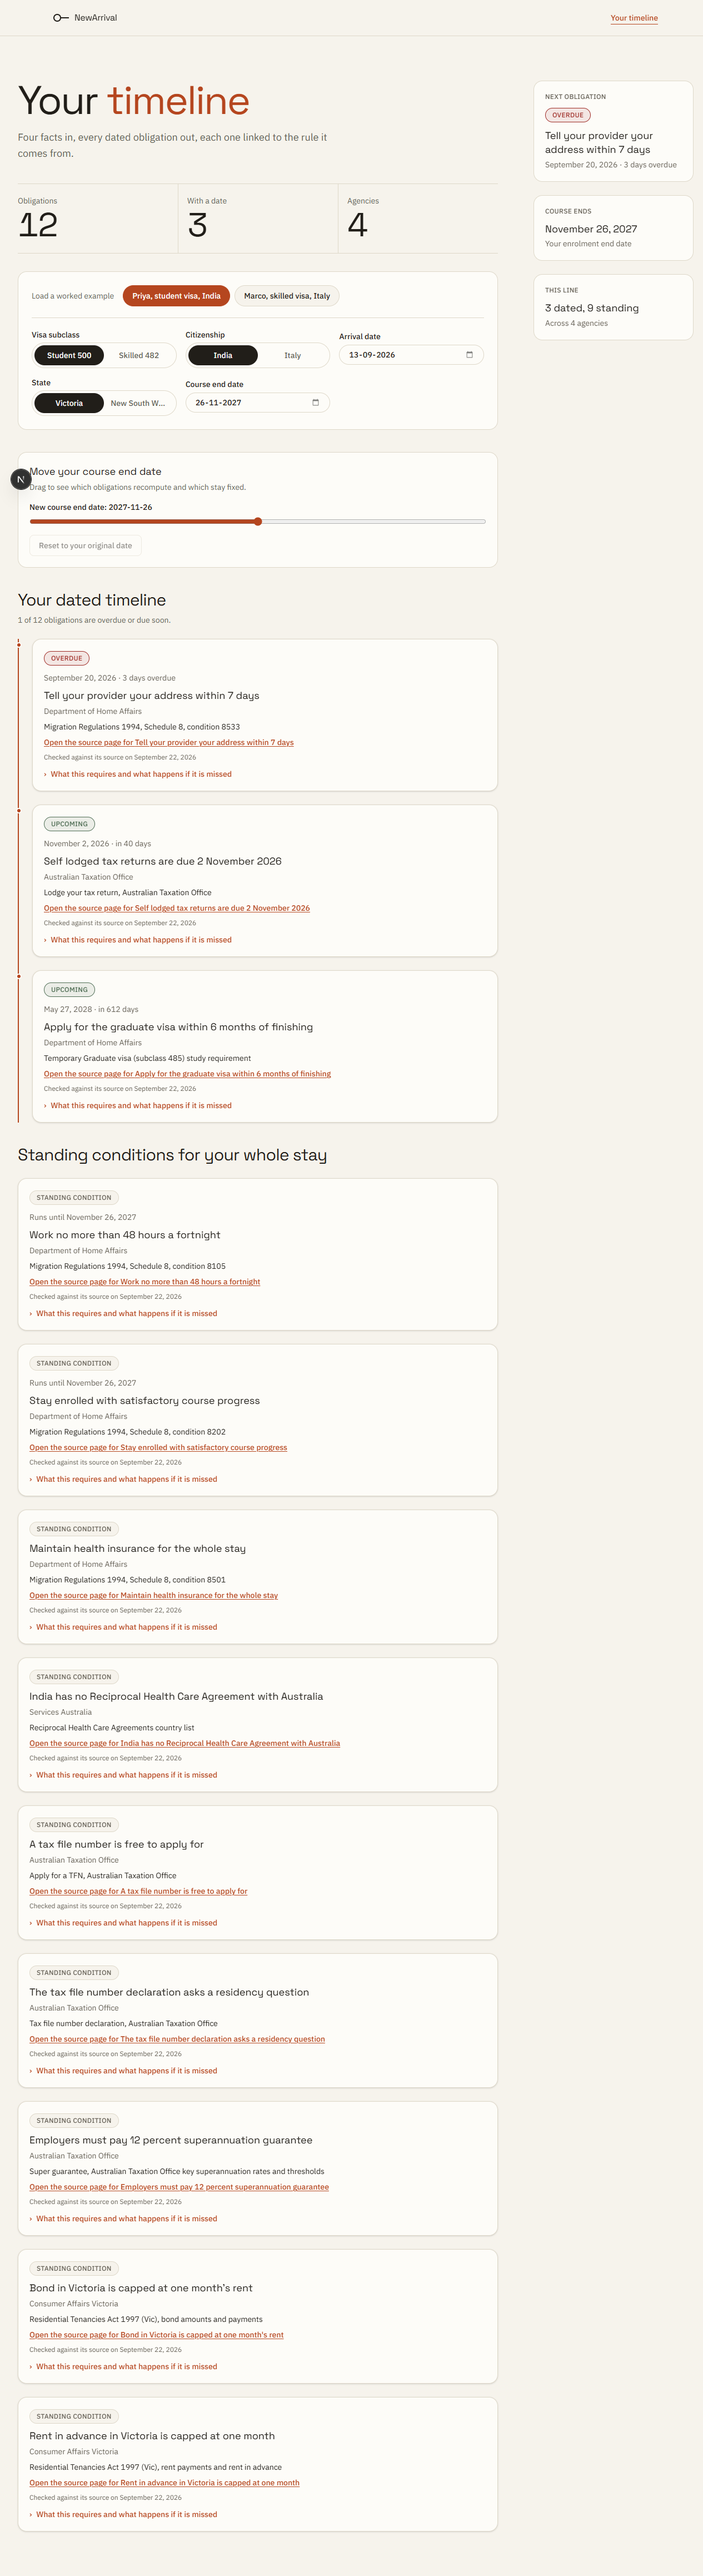
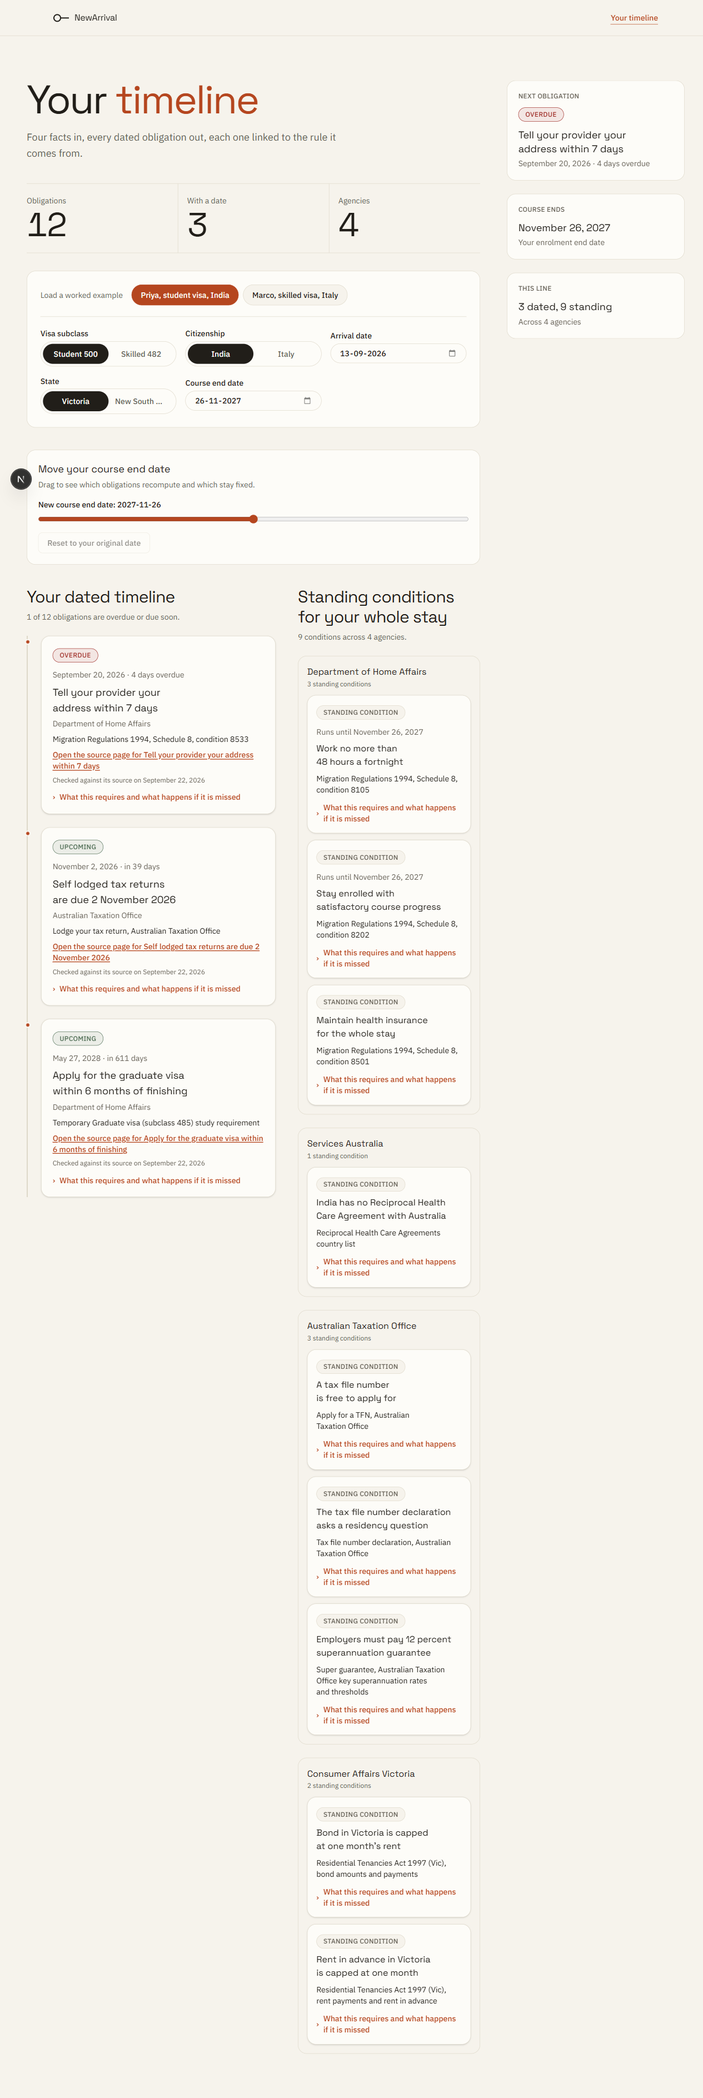
feat(timeline): break the centred-column layout at wide widths
Dated timeline and standing conditions now sit side by side above 1280,
with standing conditions grouped into per-agency cards in a multi-column
grid instead of a flat stack of nine identical cards. Card chrome is
denser in that context: source link and verified-on date fold into the
disclosure instead of sitting exposed. Sticky summary sidebar unchanged.
375 still stacks single column.

diff --git a/src/app/timeline/page.tsx b/src/app/timeline/page.tsx
@@ -117,6 +117,15 @@ export default function TimelinePage() {
   const needsCourseEnd = baseline.some((obligation) => obligation.anchor === "courseEnd");
   const dated = obligations.filter((obligation) => obligation.dueDate !== null);
   const standing = obligations.filter((obligation) => obligation.dueDate === null);
+  const standingByAgency = React.useMemo(() => {
+    const map = new Map<string, typeof standing>();
+    for (const obligation of standing) {
+      const group = map.get(obligation.agency);
+      if (group) group.push(obligation);
+      else map.set(obligation.agency, [obligation]);
+    }
+    return [...map.entries()];
+  }, [standing]);
   const agencyCount = new Set(obligations.map((obligation) => obligation.agency)).size;
   const urgentCount = obligations.filter(
     (obligation) => obligation.status === "overdue" || obligation.status === "due-soon"
@@ -159,7 +168,8 @@ export default function TimelinePage() {
   return (
     <>
       <SiteHeader current="timeline" />
-      <main className="mx-auto w-full max-w-[1800px] px-6 py-14 md:px-8 md:py-20 xl:grid xl:grid-cols-[minmax(0,56rem)_18rem] xl:justify-center xl:gap-16 2xl:grid-cols-[minmax(0,56rem)_20rem] 2xl:gap-24">
+      <main className="mx-auto w-full max-w-[2200px] px-6 py-14 md:px-8 md:py-20 xl:px-12 2xl:px-16">
+      <div className="xl:grid xl:grid-cols-[minmax(0,1fr)_20rem] xl:items-start xl:gap-12 2xl:grid-cols-[minmax(0,1fr)_22rem] 2xl:gap-16">
       <div className="w-full max-w-4xl xl:max-w-none">
         <h1 className="font-display text-[clamp(2.6rem,6vw,4.5rem)] leading-[0.98] tracking-[-0.035em] text-[var(--color-text)]">
           <span className="mask-line">
@@ -216,7 +226,7 @@ export default function TimelinePage() {
           </div>
         </section>
 
-        <section aria-labelledby="facts-heading" className="mt-5 grid gap-4 border-t border-[var(--color-border)] pt-5 sm:grid-cols-2 md:grid-cols-3">
+        <section aria-labelledby="facts-heading" className="mt-5 grid gap-4 border-t border-[var(--color-border)] pt-5 sm:grid-cols-2 md:grid-cols-3 2xl:grid-cols-5">
           <h2 id="facts-heading" className="sr-only">
             Your four facts
           </h2>
@@ -286,57 +296,77 @@ export default function TimelinePage() {
           />
         )}
 
-        <section aria-labelledby="dated-heading" className="mt-10">
-          <h2 id="dated-heading" className="font-display text-3xl tracking-tight text-[var(--color-text)]">
-            Your dated timeline
-          </h2>
-          <p className="mt-2 font-body text-sm text-[var(--color-muted)]">
-            {urgentCount} of {obligations.length} obligations are overdue or due soon.
-          </p>
-          <ol className="relative mt-6 flex flex-col gap-6 border-l-2 border-[var(--color-border)] pl-6">
-            {/* The rail fills in terracotta as the reader travels down it. */}
-            <span aria-hidden="true" className="rail-fill absolute -left-0.5 top-0 h-full w-0.5 bg-[var(--color-accent)]" />
-            {dated.map((obligation, index) => (
-              <li key={obligation.id} className="relative">
-                <span
-                  aria-hidden="true"
-                  className="absolute -left-6 top-1.5 h-2.5 w-2.5 -translate-x-1/2 rounded-full border-2 border-[var(--color-surface)] bg-[var(--color-accent)]"
-                />
-                <ObligationCard
-                  obligation={obligation}
-                  change={changeById.get(obligation.id) ?? null}
-                  cascadeIndex={index}
-                />
-              </li>
-            ))}
-            {atGraduation && (
-              <li aria-hidden="true" className="fade-up relative">
-                <span className="absolute -left-6 top-1.5 h-2.5 w-2.5 -translate-x-1/2 rounded-full border-2 border-[var(--color-surface)] bg-[var(--color-accent)]" />
-                <p className="font-display text-lg text-[var(--color-text)]">Priya graduates.</p>
-                <p className="mt-1 font-body text-sm text-[var(--color-muted)]">
-                  Every dated obligation above resettles around this day.
-                </p>
-              </li>
-            )}
-          </ol>
-        </section>
+        <div className="xl:grid xl:grid-cols-[minmax(0,28rem)_minmax(0,1fr)] xl:items-start xl:gap-10 2xl:grid-cols-[minmax(0,32rem)_minmax(0,1fr)] 2xl:gap-14">
+          <section aria-labelledby="dated-heading" className="mt-10 xl:mt-10">
+            <h2 id="dated-heading" className="font-display text-3xl tracking-tight text-[var(--color-text)]">
+              Your dated timeline
+            </h2>
+            <p className="mt-2 font-body text-sm text-[var(--color-muted)]">
+              {urgentCount} of {obligations.length} obligations are overdue or due soon.
+            </p>
+            <ol className="relative mt-6 flex flex-col gap-6 border-l-2 border-[var(--color-border)] pl-6">
+              {/* The rail fills in terracotta as the reader travels down it. */}
+              <span aria-hidden="true" className="rail-fill absolute -left-0.5 top-0 h-full w-0.5 bg-[var(--color-accent)]" />
+              {dated.map((obligation, index) => (
+                <li key={obligation.id} className="relative">
+                  <span
+                    aria-hidden="true"
+                    className="absolute -left-6 top-1.5 h-2.5 w-2.5 -translate-x-1/2 rounded-full border-2 border-[var(--color-surface)] bg-[var(--color-accent)]"
+                  />
+                  <ObligationCard
+                    obligation={obligation}
+                    change={changeById.get(obligation.id) ?? null}
+                    cascadeIndex={index}
+                  />
+                </li>
+              ))}
+              {atGraduation && (
+                <li aria-hidden="true" className="fade-up relative">
+                  <span className="absolute -left-6 top-1.5 h-2.5 w-2.5 -translate-x-1/2 rounded-full border-2 border-[var(--color-surface)] bg-[var(--color-accent)]" />
+                  <p className="font-display text-lg text-[var(--color-text)]">Priya graduates.</p>
+                  <p className="mt-1 font-body text-sm text-[var(--color-muted)]">
+                    Every dated obligation above resettles around this day.
+                  </p>
+                </li>
+              )}
+            </ol>
+          </section>
 
-        <section aria-labelledby="standing-heading" className="mt-10">
-          <h2 id="standing-heading" className="font-display text-3xl tracking-tight text-[var(--color-text)]">
-            Standing conditions for your whole stay
-          </h2>
-          <ul className="mt-6 flex flex-col gap-6">
-            {standing.map((obligation, index) => (
-              <li key={obligation.id}>
-                <ObligationCard
-                  obligation={obligation}
-                  change={changeById.get(obligation.id) ?? null}
-                  cascadeIndex={index}
-                />
-              </li>
-            ))}
-          </ul>
-        </section>
+          <section aria-labelledby="standing-heading" className="mt-10 xl:mt-10">
+            <h2 id="standing-heading" className="font-display text-3xl tracking-tight text-[var(--color-text)]">
+              Standing conditions for your whole stay
+            </h2>
+            <p className="mt-2 font-body text-sm text-[var(--color-muted)]">
+              {standing.length} condition{standing.length === 1 ? "" : "s"} across {standingByAgency.length}{" "}
+              agenc{standingByAgency.length === 1 ? "y" : "ies"}.
+            </p>
+            <div className="mt-6 grid gap-6 sm:grid-cols-2 xl:grid-cols-1 2xl:grid-cols-2">
+              {standingByAgency.map(([agency, items]) => (
+                <div
+                  key={agency}
+                  className="rounded-[var(--radius-lg)] border border-[var(--color-border)] bg-[var(--color-bg)] p-4"
+                >
+                  <h3 className="font-display text-base text-[var(--color-text)]">{agency}</h3>
+                  <p className="mt-0.5 font-body text-xs text-[var(--color-muted)]">
+                    {items.length} standing condition{items.length === 1 ? "" : "s"}
+                  </p>
+                  <div className="mt-3 grid gap-3">
+                    {items.map((obligation, index) => (
+                      <ObligationCard
+                        key={obligation.id}
+                        obligation={obligation}
+                        change={changeById.get(obligation.id) ?? null}
+                        cascadeIndex={index}
+                        compact
+                        hideAgency
+                      />
+                    ))}
+                  </div>
+                </div>
+              ))}
+            </div>
+          </section>
+        </div>
       </div>
 
       <aside className="mt-14 hidden xl:mt-0 xl:block">
@@ -386,6 +416,7 @@ export default function TimelinePage() {
           </div>
         </div>
       </aside>
+      </div>
       </main>
     </>
   );

diff --git a/src/components/ObligationCard.tsx b/src/components/ObligationCard.tsx
@@ -70,9 +70,19 @@ interface ObligationCardProps {
   obligation: Obligation;
   change?: ObligationChange | null;
   cascadeIndex?: number;
+  /** Denser chrome for grid contexts: source link and verified-on fold into the disclosure. */
+  compact?: boolean;
+  /** Omit the standalone agency line when a group heading already states it. */
+  hideAgency?: boolean;
 }
 
-export function ObligationCard({ obligation, change = null, cascadeIndex = 0 }: ObligationCardProps) {
+export function ObligationCard({
+  obligation,
+  change = null,
+  cascadeIndex = 0,
+  compact = false,
+  hideAgency = false,
+}: ObligationCardProps) {
   const phrase = relativePhrase(obligation.daysUntilDue);
   const cardStyle = {
     viewTransitionName: `obligation-${obligation.id}`,
@@ -84,7 +94,7 @@ export function ObligationCard({ obligation, change = null, cascadeIndex = 0 }: 
       data-obligation-id={obligation.id}
       data-change-kind={change?.kind ?? "none"}
       style={cardStyle}
-      className="cascade-card rounded-[var(--radius-lg)] border border-[var(--color-border)] bg-[var(--color-surface)] p-5 shadow-sm"
+      className={`cascade-card rounded-[var(--radius-lg)] border border-[var(--color-border)] bg-[var(--color-surface)] shadow-sm ${compact ? "p-4" : "p-5"}`}
     >
       <span
         className={`inline-flex items-center rounded-full border px-3 py-1 font-body text-xs font-medium uppercase tracking-wide ${STATUS_CLASS[obligation.status]}`}
@@ -111,24 +121,30 @@ export function ObligationCard({ obligation, change = null, cascadeIndex = 0 }: 
         </p>
       )}
 
-      <h3 className="mt-2 font-display text-lg text-[var(--color-text)]">{obligation.title}</h3>
+      <h3 className={`mt-2 font-display text-[var(--color-text)] ${compact ? "text-base" : "text-lg"}`}>
+        {obligation.title}
+      </h3>
 
-      <p className="mt-1 font-body text-sm text-[var(--color-muted)]">{obligation.agency}</p>
+      {!hideAgency && <p className="mt-1 font-body text-sm text-[var(--color-muted)]">{obligation.agency}</p>}
 
       <p className="mt-2 font-body text-sm text-[var(--color-text)]">{obligation.instrument}</p>
 
-      <a
-        href={obligation.sourceUrl}
-        target="_blank"
-        rel="noopener noreferrer"
-        className="affordance mt-2 inline-flex items-center gap-1 font-body text-sm font-medium text-[var(--color-accent)] underline decoration-1 underline-offset-2 hover:text-[var(--color-text)] focus-visible:outline focus-visible:outline-2 focus-visible:outline-offset-2 focus-visible:outline-[var(--color-accent)]"
-      >
-        Open the source page for {obligation.title}
-      </a>
+      {!compact && (
+        <a
+          href={obligation.sourceUrl}
+          target="_blank"
+          rel="noopener noreferrer"
+          className="affordance mt-2 inline-flex items-center gap-1 font-body text-sm font-medium text-[var(--color-accent)] underline decoration-1 underline-offset-2 hover:text-[var(--color-text)] focus-visible:outline focus-visible:outline-2 focus-visible:outline-offset-2 focus-visible:outline-[var(--color-accent)]"
+        >
+          Open the source page for {obligation.title}
+        </a>
+      )}
 
-      <p className="mt-2 font-body text-xs text-[var(--color-muted)]">
-        Checked against its source on {formatDate(obligation.verifiedOn)}
-      </p>
+      {!compact && (
+        <p className="mt-2 font-body text-xs text-[var(--color-muted)]">
+          Checked against its source on {formatDate(obligation.verifiedOn)}
+        </p>
+      )}
 
       <details className="group mt-3">
         <summary className="affordance flex cursor-pointer items-center gap-2 font-body text-sm font-medium text-[var(--color-accent)] [&::-webkit-details-marker]:hidden focus-visible:outline focus-visible:outline-2 focus-visible:outline-offset-2 focus-visible:outline-[var(--color-accent)]">
@@ -143,6 +159,21 @@ export function ObligationCard({ obligation, change = null, cascadeIndex = 0 }: 
         <p className="mt-2 font-body text-sm leading-relaxed text-[var(--color-muted)]">
           {obligation.detail}
         </p>
+        {compact && (
+          <>
+            <a
+              href={obligation.sourceUrl}
+              target="_blank"
+              rel="noopener noreferrer"
+              className="affordance mt-2 inline-flex items-center gap-1 font-body text-sm font-medium text-[var(--color-accent)] underline decoration-1 underline-offset-2 hover:text-[var(--color-text)] focus-visible:outline focus-visible:outline-2 focus-visible:outline-offset-2 focus-visible:outline-[var(--color-accent)]"
+            >
+              Open the source page for {obligation.title}
+            </a>
+            <p className="mt-2 font-body text-xs text-[var(--color-muted)]">
+              Checked against its source on {formatDate(obligation.verifiedOn)}
+            </p>
+          </>
+        )}
       </details>
     </article>
   );
